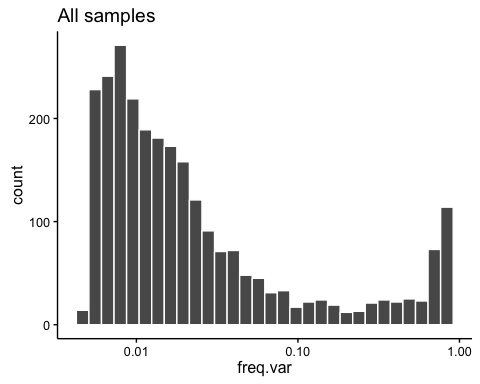
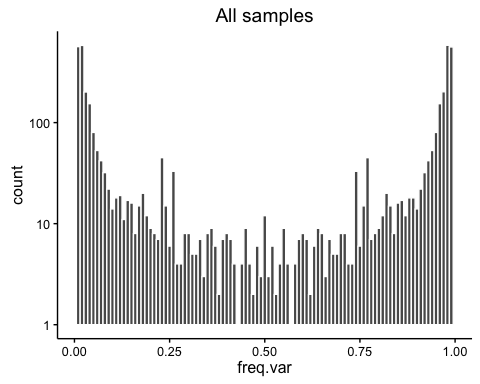
coverage plots

diff --git a/results/FluVacs_Figures.md b/results/FluVacs_Figures.md
@@ -3,6 +3,7 @@ FluVacs Figures - Draft
 Kari and JT
 May 2, 2016
 
+-   [Figure 3 Coverage plots](#figure-3-coverage-plots)
 -   [Initial data processing](#initial-data-processing)
 -   [Frequency of Variants](#frequency-of-variants)
 -   [Diversity measures](#diversity-measures)
@@ -12,9 +13,6 @@ May 2, 2016
 -   [Antigenic Sites](#antigenic-sites)
     -   [All data](#all-data-2)
     -   [High quality](#high-quality-2)
-
-Initial data processing
-=======================
 
 ``` r
 # read in the csvs and add a season column to use later
@@ -48,7 +46,7 @@ var.2007.8.df <- processing(data.df = var.2007.8, meta.df = titer.2007.8, pval =
 all.df <- rbind(var.2004.5.df, var.2005.6.df)
 all.df <- rbind(all.df, var.2007.8.df)
 
-all.df <- subset(all.df, freq.var > 0.005)
+all.df <- subset(all.df, freq.var >= 0.01)
 ##### Now for the duplicate runs #######
 
 var.2004.5.df2 <- read.csv("../data/processed/2004_2005/Variants/all.sum.csv", 
@@ -80,31 +78,68 @@ qual.2007.8 <- high_qual(data1.df = var.2007.8.df, dups.df = dups.2007.8, titer 
 all.qual.df <- rbind(qual.2004.5, qual.2005.6)
 all.qual.df <- rbind(all.qual.df, qual.2007.8)
 
-all.qual.df <- subset(all.qual.df, freq.var > 0.005)
+all.qual.df <- subset(all.qual.df, freq.var >= 0.01)
 ```
 
-So after all that work we are left with all the samples (all seasons) in all.df and only those variants from high quality data in all.qual.df. This includes samples with &gt;10<sup>5</sup> genomes per microliter or &gt; 10<sup>3</sup> genomes per microliter but were sequenced in duplicate.
+Figure 3 Coverage plots
+-----------------------
 
-> The notes about NAs being produced is a little concerning. I'll look into it later. My hunch is some of the samples from that were sequenced were not included in the meta data
+These are just from the first runs. I'm not including the duplicates here - should I? These have a sliding window of 100 with a step of 100 no overlap.
+
+``` r
+cov.2007.8 <- rbind(read.csv("../data/processed/Run_1293/deepSNV/all.coverage.csv", 
+    stringsAsFactors = F), read.csv("../data/processed/Run_1304/deepSNV/all.coverage.csv", 
+    stringsAsFactors = F))
+
+other.seasons.cov <- read.csv("../data/processed/Run_1412/deepSNV/all.coverage.csv", 
+    stringsAsFactors = F)
+
+
+cov.2004.5 <- subset(other.seasons.cov, Id %in% titer.2004.5$Sample)
+cov.2005.6 <- subset(other.seasons.cov, Id %in% titer.2005.6$Sample)
+
+
+cov.plot.04.05 <- cov_plot(cov.2004.5, "2004-2005", 100, 100)
+cov.plot.04.05
+```
+
+<img src="FluVacs_Figures_files/figure-markdown_github/coverage-1.png" style="display: block; margin: auto;" />
+
+``` r
+cov.plot.05.06 <- cov_plot(cov.2005.6, "2005-2006", 100, 100)
+cov.plot.05.06
+```
+
+<img src="FluVacs_Figures_files/figure-markdown_github/coverage-2.png" style="display: block; margin: auto;" />
+
+``` r
+cov.plot.07.08 <- cov_plot(cov.2007.8, "2007-2008", 100, 100)
+cov.plot.07.08
+```
+
+<img src="FluVacs_Figures_files/figure-markdown_github/coverage-3.png" style="display: block; margin: auto;" />
+
+If we plot on a log scale the bars are well above 0.
+
+Initial data processing
+=======================
+
+So after all that work we are left with all the samples (all seasons) in all.df and only those variants from high quality data in all.qual.df. This includes samples with &gt;10<sup>5</sup> genomes per microliter or &gt; 10<sup>3</sup> genomes per microliter but were sequenced in duplicate.
 
 Frequency of Variants
 =====================
 
 ``` r
-ggplot(subset(all.df, freq.var < 0.9), aes(x = freq.var)) + geom_histogram(color = "white") + 
-    scale_x_log10() + ggtitle("All samples")
+ggplot(subset(all.df, freq.var <= 0.99), aes(x = freq.var)) + geom_histogram(color = "white", 
+    binwidth = 0.01) + scale_y_log10() + ggtitle("All samples")
 ```
-
-    ## `stat_bin()` using `bins = 30`. Pick better value with `binwidth`.
 
 <img src="FluVacs_Figures_files/figure-markdown_github/unnamed-chunk-2-1.png" style="display: block; margin: auto;" />
 
 ``` r
-ggplot(subset(all.qual.df, freq.var < 0.9), aes(x = freq.var)) + geom_histogram(color = "white") + 
-    scale_x_log10() + ggtitle("Only high quality samples")
+ggplot(subset(all.qual.df, freq.var <= 0.99), aes(x = freq.var)) + geom_histogram(color = "white", 
+    binwidth = 0.01) + scale_y_log10() + ggtitle("Only high quality samples")
 ```
-
-    ## `stat_bin()` using `bins = 30`. Pick better value with `binwidth`.
 
 <img src="FluVacs_Figures_files/figure-markdown_github/unnamed-chunk-2-2.png" style="display: block; margin: auto;" />
 
@@ -222,46 +257,26 @@ all.df.counts <- count_muts(subset(all.df, antigenic == T))
 
 ggplot(data = subset(all.df.counts, !is.na(Vax)), aes(y = V1, x = Vax)) + geom_dotplot(stackdir = "center", 
     binaxis = "y", dotsize = 0.8) + ylab("Number of SNV") + ggtitle("all samples")
-```
 
-    ## `stat_bindot()` using `bins = 30`. Pick better value with `binwidth`.
-
-<img src="FluVacs_Figures_files/figure-markdown_github/unnamed-chunk-7-1.png" style="display: block; margin: auto;" />
-
-``` r
 all.qual.df <- Ha_antigenic(all.qual.df)
 
 all.qual.df.counts <- count_muts(subset(all.qual.df, antigenic == T))
 ggplot(data = subset(all.qual.df.counts, !is.na(Vax)), aes(y = V1, x = Vax)) + 
     geom_dotplot(stackdir = "center", binaxis = "y", dotsize = 0.8) + ylab("Number of SNV") + 
     ggtitle("quality samples")
-```
 
-    ## `stat_bindot()` using `bins = 30`. Pick better value with `binwidth`.
-
-<img src="FluVacs_Figures_files/figure-markdown_github/unnamed-chunk-7-2.png" style="display: block; margin: auto;" />
-
-``` r
 all.df.counts <- count_muts(subset(all.df, antigenic == T & freq.var < 0.9))
 
 ggplot(data = subset(all.df.counts), aes(y = V1, x = Vax)) + geom_dotplot(stackdir = "center", 
     binaxis = "y") + ylab("Number of SNV") + ggtitle("all samples frequency<90%")
-```
 
-    ## `stat_bindot()` using `bins = 30`. Pick better value with `binwidth`.
 
-<img src="FluVacs_Figures_files/figure-markdown_github/unnamed-chunk-7-3.png" style="display: block; margin: auto;" />
 
-``` r
 all.qual.df.counts <- count_muts(subset(all.qual.df, antigenic == T & freq.var < 
     0.9))
 ggplot(data = subset(all.qual.df.counts), aes(y = V1, x = Vax)) + geom_dotplot(stackdir = "center", 
     binaxis = "y") + ylab("Number of SNV") + ggtitle("quality samples (frequency<90%)")
 ```
-
-    ## `stat_bindot()` using `bins = 30`. Pick better value with `binwidth`.
-
-<img src="FluVacs_Figures_files/figure-markdown_github/unnamed-chunk-7-4.png" style="display: block; margin: auto;" />
 
 Shannon's Entropy
 -----------------
@@ -333,23 +348,16 @@ all.ant.H <- ddply(subset(all.df, antigenic == T), ~Lauring_Id + Vax + season,
 
 ggplot(data = subset(all.ant.H), aes(y = V1, x = Vax)) + geom_dotplot(stackdir = "center", 
     binaxis = "y") + ylab("Shannon's Entropy") + scale_y_log10() + ggtitle("all samples")
-```
 
-    ## `stat_bindot()` using `bins = 30`. Pick better value with `binwidth`.
 
-<img src="FluVacs_Figures_files/figure-markdown_github/unnamed-chunk-10-1.png" style="display: block; margin: auto;" />
 
-``` r
+
 qual.ant.H <- ddply(subset(all.qual.df, antigenic == T), ~Lauring_Id + Vax + 
     season, H)
 
 ggplot(data = subset(qual.ant.H), aes(y = V1, x = Vax)) + geom_dotplot(stackdir = "center", 
     binaxis = "y") + ylab("Shannon's Entropy") + scale_y_log10() + ggtitle("quality samples")
 ```
-
-    ## `stat_bindot()` using `bins = 30`. Pick better value with `binwidth`.
-
-<img src="FluVacs_Figures_files/figure-markdown_github/unnamed-chunk-10-2.png" style="display: block; margin: auto;" />
 
 Heat map
 ========
@@ -420,218 +428,3 @@ x <- Ha_antigenic(qual.2007.8)
 kable(subset(x, antigenic == T & season == "07-08", select = c(Lauring_Id, mutation, 
     freq.var, AA_pos)))
 ```
-
-|       |  Lauring\_Id| mutation  |   freq.var|  AA\_pos|
-|-------|------------:|:----------|----------:|--------:|
-| 1500  |           34| HA\_A565C |  0.9980709|      189|
-| 1501  |           34| HA\_C629T |  0.9973801|      210|
-| 1502  |           34| HA\_C729T |  0.9974668|      243|
-| 72    |           10| HA\_A565C |  0.9983945|      189|
-| 73    |           10| HA\_A688G |  0.0344225|      230|
-| 77    |           10| HA\_C629T |  0.9970229|      210|
-| 78    |           10| HA\_C729T |  0.9972878|      243|
-| 79    |           10| HA\_C732T |  0.0335238|      244|
-| 139   |          100| HA\_A297T |  0.9959462|       99|
-| 140   |          100| HA\_A567T |  0.9964438|      189|
-| 142   |          100| HA\_C629T |  0.9972223|      210|
-| 143   |          100| HA\_C729T |  0.9979950|      243|
-| 150   |          100| HA\_T518C |  0.9957175|      173|
-| 215   |          101| HA\_A297T |  0.9980548|       99|
-| 216   |          101| HA\_A567T |  0.9983133|      189|
-| 218   |          101| HA\_C629T |  0.9973626|      210|
-| 219   |          101| HA\_C729T |  0.9980558|      243|
-| 226   |          101| HA\_T518C |  0.9981249|      173|
-| 290   |          103| HA\_A565C |  0.9988935|      189|
-| 294   |          103| HA\_C629T |  0.9974011|      210|
-| 295   |          103| HA\_C729T |  0.9983478|      243|
-| 359   |          104| HA\_A565C |  0.9987385|      189|
-| 362   |          104| HA\_C629T |  0.9978459|      210|
-| 363   |          104| HA\_C729T |  0.9978872|      243|
-| 430   |          105| HA\_A565C |  0.9989337|      189|
-| 434   |          105| HA\_C629T |  0.9978812|      210|
-| 435   |          105| HA\_C729T |  0.9981756|      243|
-| 493   |          106| HA\_A565C |  0.9986871|      189|
-| 496   |          106| HA\_C629T |  0.9977548|      210|
-| 497   |          106| HA\_C729T |  0.9982505|      243|
-| 558   |           11| HA\_A565C |  0.9988134|      189|
-| 561   |           11| HA\_C629T |  0.9976123|      210|
-| 562   |           11| HA\_C729T |  0.9975801|      243|
-| 619   |           12| HA\_A565C |  0.9989583|      189|
-| 623   |           12| HA\_C629T |  0.9976716|      210|
-| 624   |           12| HA\_C729T |  0.9982336|      243|
-| 682   |           14| HA\_A565C |  0.9987207|      189|
-| 685   |           14| HA\_C629T |  0.9977788|      210|
-| 686   |           14| HA\_C729T |  0.9980738|      243|
-| 745   |           15| HA\_A565C |  0.9986656|      189|
-| 748   |           15| HA\_C629T |  0.9977469|      210|
-| 749   |           15| HA\_C729T |  0.9974870|      243|
-| 806   |           16| HA\_A565C |  0.9974008|      189|
-| 810   |           16| HA\_C629T |  0.9959475|      210|
-| 811   |           16| HA\_C729T |  0.9947945|      243|
-| 872   |           17| HA\_A565C |  0.9954355|      189|
-| 875   |           17| HA\_C629T |  0.9943010|      210|
-| 876   |           17| HA\_C729T |  0.9940370|      243|
-| 930   |           18| HA\_A565C |  0.9971292|      189|
-| 933   |           18| HA\_C629T |  0.9952360|      210|
-| 934   |           18| HA\_C729T |  0.9940168|      243|
-| 991   |           19| HA\_A565C |  0.9987964|      189|
-| 994   |           19| HA\_C629T |  0.9979303|      210|
-| 995   |           19| HA\_C729T |  0.9971728|      243|
-| 1052  |            2| HA\_A565C |  0.9985182|      189|
-| 1056  |            2| HA\_C629T |  0.9971388|      210|
-| 1057  |            2| HA\_C729T |  0.9975170|      243|
-| 1113  |           22| HA\_A565C |  0.9988689|      189|
-| 1116  |           22| HA\_C629T |  0.9970856|      210|
-| 1117  |           22| HA\_C729T |  0.9979462|      243|
-| 1179  |           25| HA\_A565C |  0.9988729|      189|
-| 1182  |           25| HA\_C629T |  0.9974685|      210|
-| 1183  |           25| HA\_C729T |  0.9981354|      243|
-| 1242  |           26| HA\_A565C |  0.9986016|      189|
-| 1243  |           26| HA\_A672G |  0.1305439|      224|
-| 1246  |           26| HA\_C629T |  0.9977155|      210|
-| 1247  |           26| HA\_C729T |  0.9980634|      243|
-| 1306  |           27| HA\_A565C |  0.9984427|      189|
-| 1309  |           27| HA\_C629T |  0.9970866|      210|
-| 1310  |           27| HA\_C729T |  0.9977687|      243|
-| 1313  |           27| HA\_G193A |  0.0304207|       65|
-| 1367  |           28| HA\_A565C |  0.9986050|      189|
-| 1370  |           28| HA\_C629T |  0.9972927|      210|
-| 1371  |           28| HA\_C729T |  0.9977654|      243|
-| 1428  |           29| HA\_A565C |  0.9986560|      189|
-| 1431  |           29| HA\_C629T |  0.9974124|      210|
-| 1432  |           29| HA\_C729T |  0.9977877|      243|
-| 1494  |            3| HA\_A565C |  0.9986414|      189|
-| 1496  |            3| HA\_C629T |  0.9970621|      210|
-| 1497  |            3| HA\_C729T |  0.9970343|      243|
-| 15011 |            3| HA\_G671A |  0.9851019|      224|
-| 15631 |           31| HA\_A565C |  0.9989570|      189|
-| 15661 |           31| HA\_C629T |  0.9975954|      210|
-| 15671 |           31| HA\_C729T |  0.9981906|      243|
-| 1621  |           33| HA\_A565C |  0.9985810|      189|
-| 1625  |           33| HA\_C629T |  0.9977589|      210|
-| 1626  |           33| HA\_C729T |  0.9978738|      243|
-| 1683  |           34| HA\_A565C |  0.9984352|      189|
-| 1686  |           34| HA\_C629T |  0.9974346|      210|
-| 1687  |           34| HA\_C729T |  0.9976728|      243|
-| 1751  |           39| HA\_A565C |  0.9982252|      189|
-| 1754  |           39| HA\_C629T |  0.9971186|      210|
-| 1755  |           39| HA\_C729T |  0.9970488|      243|
-| 1817  |            4| HA\_A565C |  0.9982301|      189|
-| 1820  |            4| HA\_C629T |  0.9967635|      210|
-| 1821  |            4| HA\_C729T |  0.9972041|      243|
-| 1881  |           41| HA\_A565C |  0.9987356|      189|
-| 1885  |           41| HA\_C629T |  0.9974913|      210|
-| 1886  |           41| HA\_C729T |  0.9980945|      243|
-| 1949  |           42| HA\_A565C |  0.9984543|      189|
-| 1952  |           42| HA\_C629T |  0.9967758|      210|
-| 1953  |           42| HA\_C729T |  0.9969196|      243|
-| 2014  |           43| HA\_A565C |  0.9980756|      189|
-| 2017  |           43| HA\_C629T |  0.9972867|      210|
-| 2018  |           43| HA\_C729T |  0.9975441|      243|
-| 2079  |           46| HA\_A565C |  0.9986484|      189|
-| 2083  |           46| HA\_C629T |  0.9974928|      210|
-| 2084  |           46| HA\_C729T |  0.9978857|      243|
-| 2139  |           47| HA\_A565C |  0.9988333|      189|
-| 2143  |           47| HA\_C629T |  0.9976878|      210|
-| 2144  |           47| HA\_C729T |  0.9982346|      243|
-| 2203  |           49| HA\_A565C |  0.9983454|      189|
-| 2207  |           49| HA\_C629T |  0.9971778|      210|
-| 2208  |           49| HA\_C729T |  0.9971594|      243|
-| 2269  |            5| HA\_A565C |  0.9982648|      189|
-| 2273  |            5| HA\_C629T |  0.9970899|      210|
-| 2274  |            5| HA\_C729T |  0.9975128|      243|
-| 2330  |           50| HA\_A315G |  0.9983631|      105|
-| 2331  |           50| HA\_A565C |  0.9984787|      189|
-| 2334  |           50| HA\_C629T |  0.9970463|      210|
-| 2335  |           50| HA\_C729T |  0.9861958|      243|
-| 2392  |           51| HA\_A565C |  0.9982992|      189|
-| 2395  |           51| HA\_C629T |  0.9966579|      210|
-| 2396  |           51| HA\_C729T |  0.9968078|      243|
-| 2464  |           54| HA\_A565C |  0.9985944|      189|
-| 2466  |           54| HA\_C629T |  0.9970022|      210|
-| 2467  |           54| HA\_C729T |  0.9976578|      243|
-| 2471  |           54| HA\_G671A |  0.9839943|      224|
-| 2529  |           55| HA\_A565C |  0.9986810|      189|
-| 2534  |           55| HA\_C629T |  0.9967561|      210|
-| 2535  |           55| HA\_C729T |  0.9975773|      243|
-| 2595  |           56| HA\_A565C |  0.9985008|      189|
-| 2598  |           56| HA\_C629T |  0.9970413|      210|
-| 2599  |           56| HA\_C729T |  0.9976786|      243|
-| 2656  |           57| HA\_A565C |  0.9985654|      189|
-| 2659  |           57| HA\_C629T |  0.9976541|      210|
-| 2660  |           57| HA\_C729T |  0.9974405|      243|
-| 2717  |            6| HA\_A565C |  0.9985249|      189|
-| 2721  |            6| HA\_C285A |  0.0395353|       95|
-| 2722  |            6| HA\_C629T |  0.9971478|      210|
-| 2723  |            6| HA\_C729T |  0.9972890|      243|
-| 2783  |           61| HA\_A565C |  0.9984241|      189|
-| 2787  |           61| HA\_C629T |  0.9971428|      210|
-| 2788  |           61| HA\_C729T |  0.9973316|      243|
-| 2851  |           64| HA\_A565C |  0.9986240|      189|
-| 2855  |           64| HA\_C629T |  0.9973139|      210|
-| 2856  |           64| HA\_C729T |  0.9974749|      243|
-| 2921  |           66| HA\_A565C |  0.9983496|      189|
-| 2925  |           66| HA\_C629T |  0.9973869|      210|
-| 2926  |           66| HA\_C729T |  0.9978415|      243|
-| 2988  |           67| HA\_A565C |  0.9980889|      189|
-| 2993  |           67| HA\_C629T |  0.9973030|      210|
-| 2994  |           67| HA\_C729T |  0.9972811|      243|
-| 3053  |            7| HA\_A565C |  0.9984670|      189|
-| 3057  |            7| HA\_C629T |  0.9969872|      210|
-| 3058  |            7| HA\_C729T |  0.9965494|      243|
-| 3115  |           71| HA\_A565C |  0.9981030|      189|
-| 3118  |           71| HA\_C629T |  0.9970055|      210|
-| 3119  |           71| HA\_C729T |  0.9972278|      243|
-| 3179  |           72| HA\_A565C |  0.9982216|      189|
-| 3183  |           72| HA\_C629T |  0.9973341|      210|
-| 3184  |           72| HA\_C729T |  0.9973902|      243|
-| 3243  |           73| HA\_A565C |  0.9981769|      189|
-| 3246  |           73| HA\_C629T |  0.9970232|      210|
-| 3247  |           73| HA\_C729T |  0.9971739|      243|
-| 3307  |           74| HA\_A565C |  0.9982042|      189|
-| 3310  |           74| HA\_C629T |  0.9974127|      210|
-| 3311  |           74| HA\_C729T |  0.9973632|      243|
-| 3374  |           76| HA\_A565C |  0.9985004|      189|
-| 3375  |           76| HA\_A697G |  0.9987604|      233|
-| 3379  |           76| HA\_C629T |  0.9972478|      210|
-| 3380  |           76| HA\_C729T |  0.9975974|      243|
-| 3443  |           78| HA\_A565C |  0.9984367|      189|
-| 3446  |           78| HA\_C629T |  0.9972519|      210|
-| 3447  |           78| HA\_C729T |  0.9973406|      243|
-| 3505  |           79| HA\_A297T |  0.9969175|       99|
-| 3506  |           79| HA\_A567T |  0.9980788|      189|
-| 3508  |           79| HA\_C629T |  0.9972442|      210|
-| 3509  |           79| HA\_C729T |  0.9963955|      243|
-| 3514  |           79| HA\_T518C |  0.9978933|      173|
-| 3582  |            8| HA\_A565C |  0.9983838|      189|
-| 3586  |            8| HA\_C629T |  0.9969855|      210|
-| 3587  |            8| HA\_C729T |  0.9974580|      243|
-| 3651  |           80| HA\_A565C |  0.9990122|      189|
-| 3654  |           80| HA\_C629T |  0.9973785|      210|
-| 3655  |           80| HA\_C729T |  0.9977157|      243|
-| 3713  |           81| HA\_A565C |  0.9987757|      189|
-| 3716  |           81| HA\_C629T |  0.9976771|      210|
-| 3717  |           81| HA\_C729T |  0.9976326|      243|
-| 3779  |           82| HA\_A565C |  0.9987927|      189|
-| 3782  |           82| HA\_C629T |  0.9978887|      210|
-| 3783  |           82| HA\_C729T |  0.9982795|      243|
-| 3837  |           84| HA\_A565C |  0.9993071|      189|
-| 3840  |           84| HA\_C629T |  0.9982393|      210|
-| 3841  |           84| HA\_C729T |  0.9985326|      243|
-| 3900  |           85| HA\_A565C |  0.9990354|      189|
-| 3903  |           85| HA\_C629T |  0.9977603|      210|
-| 3904  |           85| HA\_C704A |  0.9983523|      235|
-| 3905  |           85| HA\_C729T |  0.9983797|      243|
-| 3967  |           86| HA\_A565C |  0.9985693|      189|
-| 3969  |           86| HA\_C629T |  0.9974637|      210|
-| 3970  |           86| HA\_C729T |  0.9977880|      243|
-| 4029  |           88| HA\_A565C |  0.9991538|      189|
-| 4034  |           88| HA\_C629T |  0.9980396|      210|
-| 4035  |           88| HA\_C729T |  0.9985340|      243|
-| 4093  |           89| HA\_A565C |  0.9988542|      189|
-| 4096  |           89| HA\_C629T |  0.9977272|      210|
-| 4097  |           89| HA\_C729T |  0.9981542|      243|
-| 4104  |           89| HA\_T870G |  0.0104390|      290|
-| 4158  |           98| HA\_A565C |  0.9989341|      189|
-| 4161  |           98| HA\_C629T |  0.9977374|      210|
-| 4162  |           98| HA\_C729T |  0.9980385|      243|
